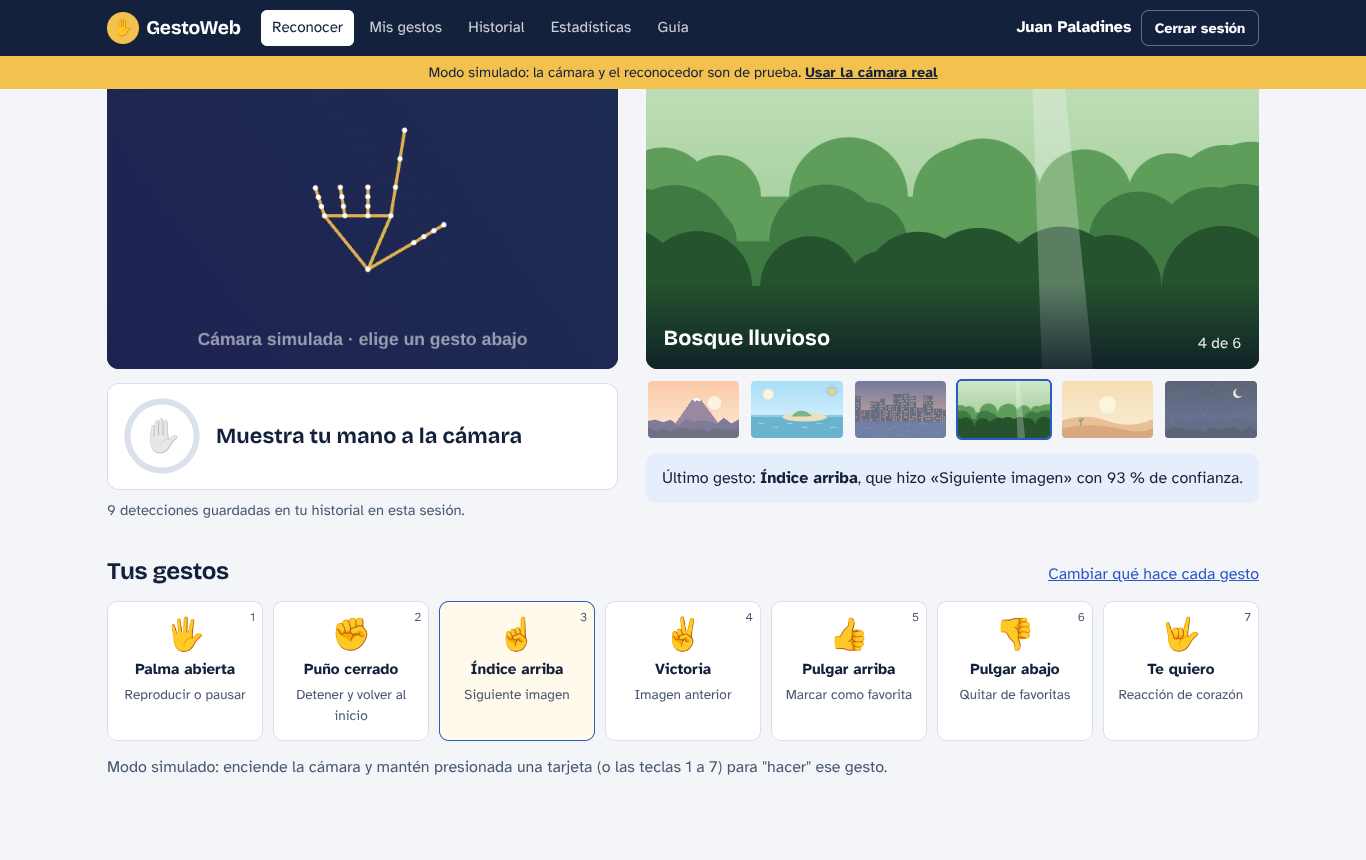
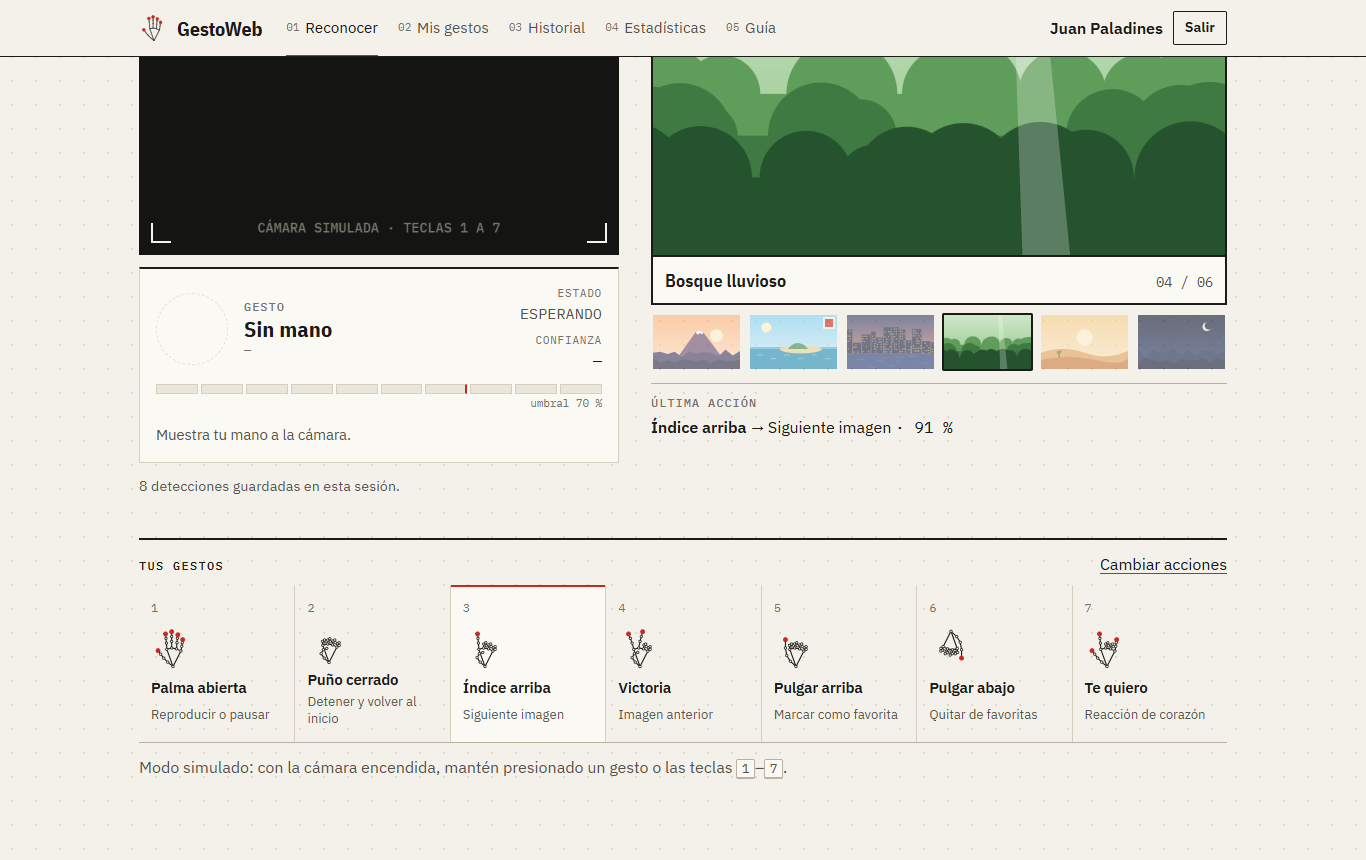
docs: regenerar capturas y manual de usuario
Las 16 capturas de docs/capturas se regeneran con frontend/e2e/recorrido.mjs sobre la interfaz nueva (14/14 comprobaciones: flujo CU-03 simulado, P-04, P-05, RF-10 y bitácora). El manual explica los estados medibles del panel de lectura y la barra de tramos con el umbral, y usa los nombres nuevos de los botones (Entrar, Salir, Exportar CSV, Restaurar acciones iniciales). Se quitan los emojis de README, manual y pruebas. El recorrido se adapta a los textos nuevos y deja de imprimir símbolos.

Refs: OBS-02, P-04, P-05, RF-10

diff --git a/docs/manual-de-usuario.md b/docs/manual-de-usuario.md
@@ -18,7 +18,7 @@ GestoWeb te deja controlar una página con gestos de tu mano, usando la cámara 
 2. Escribe tu nombre, tu correo y una contraseña de **al menos 8 caracteres con letras y números**.
 3. Al terminar entras directo a la pantalla **Reconocer**.
 
-La próxima vez usa **Iniciar sesión** con tu correo y contraseña. Tu sesión dura 8 horas; después el sistema te pide entrar de nuevo. Para salir, pulsa **Cerrar sesión** arriba a la derecha.
+La próxima vez usa **Entrar** con tu correo y contraseña. Tu sesión dura 8 horas; después el sistema te pide entrar de nuevo. Para salir, pulsa **Salir** arriba a la derecha.
 
 ![Crear cuenta](capturas/02-registro.png)
 
@@ -28,23 +28,24 @@ La próxima vez usa **Iniciar sesión** con tu correo y contraseña. Tu sesión 
 
 1. Pulsa **Encender cámara**. La primera vez el navegador te pregunta si GestoWeb puede usar la cámara: elige **Permitir**.
 2. Pon tu mano frente a la cámara, completa y a unos 40–70 cm.
-3. Haz un gesto y **mantenlo quieto medio segundo**. El anillo alrededor del ícono se va llenando; cuando se completa, el gesto se acepta.
-4. El panel de imágenes de la derecha hace la acción de ese gesto, y abajo aparece qué gesto fue y qué hizo.
+3. Haz un gesto y **mantenlo quieto medio segundo**. En el panel de lectura, el estado cuenta los milisegundos (`ESTABILIZANDO 320/500 ms`); al llegar a 500 el gesto se acepta.
+4. El panel de imágenes de la derecha hace la acción de ese gesto, y en **Última acción** aparece qué gesto fue y qué hizo.
 5. Si mantienes el gesto, la acción se repite cada segundo (por ejemplo, para avanzar varias imágenes).
 6. Cuando termines, pulsa **Apagar cámara**.
 
 ![Gesto en proceso de aceptación](capturas/04-reconocer-estabilizando.png)
 
-**Qué significa cada mensaje bajo la cámara:**
+**Qué significa cada estado del panel de lectura:**
 
-| Mensaje | Qué pasa |
+| Estado | Qué pasa |
 |---|---|
-| Muestra tu mano a la cámara | No se ve ninguna mano. |
-| Buscando gesto | Se ve tu mano, pero no un gesto conocido o con poca seguridad. |
-| *Nombre del gesto* · Mantén el gesto… | Reconoció el gesto; mantenlo hasta que el anillo se llene. |
-| Gesto aceptado / Listo. Mantenlo para repetir | Se hizo la acción. |
+| `ESPERANDO` | No se ve ninguna mano. |
+| `DESCARTADO` | Se ve tu mano, pero no un gesto conocido o con confianza bajo el umbral. |
+| `ESTABILIZANDO 320/500 ms` | Reconoció el gesto; mantenlo hasta llegar a 500 ms. |
+| `ACEPTADO` | Se hizo la acción. |
+| `EN PAUSA` | Espera de 1 s antes de repetir la acción si mantienes el gesto. |
 
-La barra azul muestra la **confianza**: qué tan seguro está el sistema. Un gesto solo se acepta si la confianza llega al mínimo (normalmente 70 %).
+La barra de 10 tramos muestra la **confianza**: qué tan seguro está el sistema. La marca roja es el **umbral** del gesto (normalmente 70 %): un gesto solo se acepta si la confianza lo alcanza.
 
 Debajo de la cámara también verás cuántos gestos se guardaron en tu historial. Si se corta la conexión con el servidor, el reconocimiento **sigue funcionando** y los gestos se guardan cuando vuelve la conexión.
 
@@ -52,26 +53,26 @@ Debajo de la cámara también verás cuántos gestos se guardaron en tu historia
 
 | Gesto | Cómo se hace | Qué hace al inicio |
 |---|---|---|
-| 🖐 Palma abierta | Mano abierta, cinco dedos extendidos | Reproducir o pausar el pase automático |
-| ✊ Puño cerrado | Todos los dedos cerrados | Detener y volver a la primera imagen |
-| ☝ Índice arriba | Solo el índice hacia arriba | Siguiente imagen |
-| ✌ Victoria | Índice y medio en V | Imagen anterior |
-| 👍 Pulgar arriba | Puño con el pulgar hacia arriba | Marcar la imagen como favorita |
-| 👎 Pulgar abajo | Puño con el pulgar hacia abajo | Quitar la imagen de favoritas |
-| 🤟 Te quiero | Pulgar, índice y meñique extendidos | Mostrar un corazón en pantalla |
+| Palma abierta | Mano abierta, cinco dedos extendidos | Reproducir o pausar el pase automático |
+| Puño cerrado | Todos los dedos cerrados | Detener y volver a la primera imagen |
+| Índice arriba | Solo el índice hacia arriba | Siguiente imagen |
+| Victoria | Índice y medio en V | Imagen anterior |
+| Pulgar arriba | Puño con el pulgar hacia arriba | Marcar la imagen como favorita |
+| Pulgar abajo | Puño con el pulgar hacia abajo | Quitar la imagen de favoritas |
+| Te quiero | Pulgar, índice y meñique extendidos | Mostrar un corazón en pantalla |
 
-En el menú **Guía** tienes cada gesto con consejos para que se reconozca a la primera.
+En el menú **Guía** tienes cada gesto dibujado con sus 21 puntos, cómo se hace y el error típico.
 
 ## 5. Cambiar qué hace cada gesto
 
-En **Mis gestos** elige, para cada gesto, la acción que prefieras. Se guarda al instante. Con **Volver a la configuración inicial** todo regresa a la tabla de arriba.
+En **Mis gestos** elige, para cada gesto, la acción que prefieras. Se guarda al instante. Con **Restaurar acciones iniciales** todo regresa a la tabla de arriba.
 
 ![Mis gestos](capturas/09-configuracion.png)
 
 ## 6. Historial y estadísticas
 
-- **Historial:** cada gesto aceptado, con fecha, acción, confianza y mano. Puedes filtrar por fechas y por gesto, y **Descargar CSV** para abrirlo en Excel.
-- **Estadísticas:** tu gesto más usado, cuántos gestos hiciste, la confianza promedio, un gráfico por gesto y otro por día. Elige el periodo arriba a la derecha.
+- **Historial:** cada gesto aceptado, con fecha, acción, confianza y mano. Puedes filtrar por fechas y por gesto, y **Exportar CSV** para abrirlo en Excel.
+- **Estadísticas:** las lecturas del periodo (gestos aceptados, confianza promedio y gesto más usado), un gráfico por gesto con el más usado en rojo y otro por día. Elige el periodo arriba a la derecha.
 
 ![Estadísticas](capturas/08-estadisticas.png)
 

diff --git a/docs/pruebas.md b/docs/pruebas.md
@@ -21,12 +21,12 @@ Resultado de la última ejecución: **83 de 83 pruebas aprobadas**. Cobertura de
 | **P-01 Precisión** | Pendiente: requiere personas y cámara | Procedimiento abajo. Depende del modelo de MediaPipe, no del código del equipo. |
 | **P-02 Velocidad** | Pendiente: requiere cámara | En desarrollo (`npm start`) la pantalla Reconocer muestra "img/s" arriba a la derecha del video. Meta: 15 o más en 2 laptops. |
 | **P-03 Respuesta** | Lógica comprobada; falta medir con cámara | Las pruebas del frontend confirman que la acción ocurre a los 500 ms de estabilidad. Con cámara, grabar la pantalla y medir: meta ≤ 1 s. |
-| **P-04 Privacidad** | ✔ Aprobada | Prueba de extremo a extremo: se registraron todas las peticiones del navegador durante una sesión; 13 llevaban cuerpo y la mayor pesaba **103 bytes**. Ninguna contiene imágenes. Además el servidor rechaza cuerpos de más de 20 KB (prueba automática, HTTP 413). |
-| **P-05 Permisos** | ✔ Aprobada | Automática (`http.prueba.ts`): ruta de administrador sin token → 401; con usuario normal → 403; token alterado → 401. En el navegador, un usuario normal que abre `/admin` vuelve a `/reconocer`. |
-| **P-06 Contraseñas** | ✔ Aprobada | Automática (`base-datos.prueba.ts`): toda `contrasena_hash` es un hash bcrypt `$2b$10$…` y no contiene la contraseña. |
-| **P-07 Base de datos** | ✔ Aprobada | Automática: al crear un usuario se crean 7 asignaciones; una detección en una sesión cerrada se rechaza con el error `GW001`. |
+| **P-04 Privacidad** | Aprobada | Prueba de extremo a extremo: se registraron todas las peticiones del navegador durante una sesión; 13 llevaban cuerpo y la mayor pesaba **103 bytes**. Ninguna contiene imágenes. Además el servidor rechaza cuerpos de más de 20 KB (prueba automática, HTTP 413). |
+| **P-05 Permisos** | Aprobada | Automática (`http.prueba.ts`): ruta de administrador sin token → 401; con usuario normal → 403; token alterado → 401. En el navegador, un usuario normal que abre `/admin` vuelve a `/reconocer`. |
+| **P-06 Contraseñas** | Aprobada | Automática (`base-datos.prueba.ts`): toda `contrasena_hash` es un hash bcrypt `$2b$10$…` y no contiene la contraseña. |
+| **P-07 Base de datos** | Aprobada | Automática: al crear un usuario se crean 7 asignaciones; una detección en una sesión cerrada se rechaza con el error `GW001`. |
 | **P-08 Usuario nuevo** | Pendiente: requiere una persona externa | La pantalla de registro lleva directo a Reconocer con el botón "Encender cámara" y la guía de gestos a la vista. |
-| **P-09 Hexagonal** | ✔ Aprobada | Automática (`contrato.prueba.ts`): las mismas pruebas pasan con adaptadores PostgreSQL y en memoria sin tocar el núcleo. También `REPOSITORIOS=memoria` en el `.env`. |
+| **P-09 Hexagonal** | Aprobada | Automática (`contrato.prueba.ts`): las mismas pruebas pasan con adaptadores PostgreSQL y en memoria sin tocar el núcleo. También `REPOSITORIOS=memoria` en el `.env`. |
 | **P-10 Navegadores** | Parcial | El flujo completo (CU-03 en modo simulado) pasó en Chromium 153. Falta repetir con cámara real en Chrome, Edge y Firefox. |
 
 ### Otras comprobaciones hechas
@@ -50,7 +50,7 @@ El entorno donde se construyó el proyecto no tiene cámara y no permite descarg
 Primera prueba sugerida con cámara (10 minutos):
 1. `cd frontend && npm run modelo && npm start`, abrir http://localhost:4200/?simulado=0.
 2. Encender la cámara: debe pedir permiso, mostrar el video espejado y dibujar los puntos de la mano.
-3. Hacer ☝: el anillo se llena y el panel avanza. Revisar que el contador "img/s" esté en 15 o más (P-02).
+3. Hacer índice arriba: el estado llega a `ACEPTADO` y el panel avanza. Revisar que el contador "img/s" esté en 15 o más (P-02).
 4. Con la mano derecha, el historial debe decir "Derecha" (si dice "Izquierda", invertir la línea de `mano` en `reconocedor-mediapipe.ts`).
 5. Negar el permiso de cámara: debe aparecer el mensaje de cómo activarla (flujo 2a).
 

diff --git a/README.md b/README.md
@@ -37,7 +37,7 @@ npm start                     # abre http://localhost:4200
 ### 3. Entrar
 - Crea una cuenta en **Crear cuenta**, o usa el administrador de prueba:
   **admin@gestoweb.local** / **Admin123!** (cámbiala antes de publicar).
-- Ve a **Reconocer**, pulsa **Encender cámara** y haz un gesto. ☝ pasa a la siguiente imagen.
+- Ve a **Reconocer**, pulsa **Encender cámara** y haz un gesto: índice arriba pasa a la siguiente imagen.
 
 > **Sin PostgreSQL:** pon `REPOSITORIOS=memoria` en `backend/.env` y salta `db:crear`. Los datos se pierden al reiniciar.
 > **Sin cámara:** abre `http://localhost:4200/?simulado=1`. La cámara y el modelo se reemplazan por adaptadores de prueba y los gestos se "hacen" con botones o con las teclas 1 a 7. Se desactiva con `?simulado=0`.
